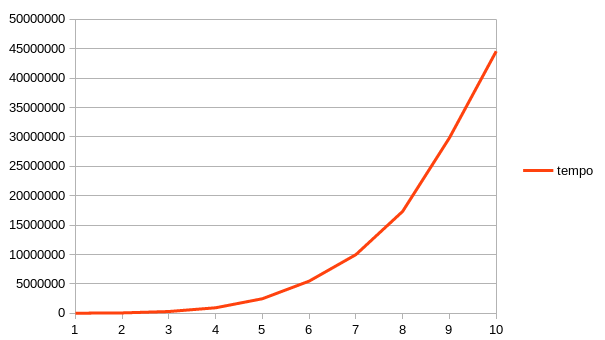
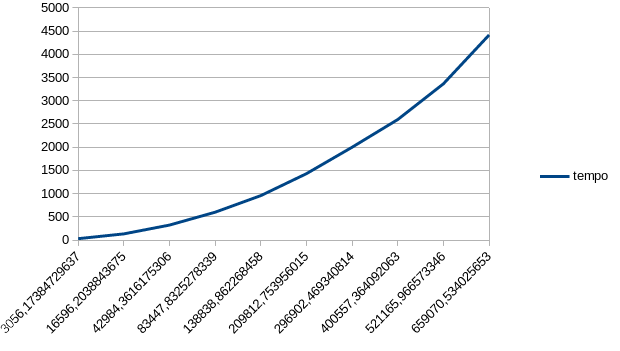
Updated graph and csv

diff --git a/cal_fp05_CLion/Tests/tests.cpp b/cal_fp05_CLion/Tests/tests.cpp
@@ -46,22 +46,24 @@ basic_ostream<char>& operator<<(basic_ostream<char> & strm, const pair<T1, T2>& 
     return strm;
 }
 
-
-void geneateRandomGridGraph(int n, Graph<pair<int,int>> & g) {
+//Changed parameters to get V and E
+void geneateRandomGridGraph(int n, Graph<pair<int,int>> & g, long int &V, long int &E) {
     std::random_device rd;
     std::mt19937 gen(rd());
     std::uniform_int_distribution<int> dis(1, n);
 
     for (int i = 0; i < n; i++)
         for (int j = 0; j < n; j++)
-            g.addVertex(make_pair(i,j));
+            {g.addVertex(make_pair(i,j));
+            V++;}//My addition
 
     for (int i = 0; i < n; i++)
         for (int j = 0; j < n; j++)
             for (int di = -1; di <= 1; di++)
                 for (int dj = -1; dj <= 1; dj++)
                     if ((di != 0) != (dj != 0) && i+di >= 0 && i+di < n && j+dj >= 0 && j+dj < n)
-                        g.addEdge(make_pair(i,j), make_pair(i+di,j+dj), dis(gen));
+                        {g.addEdge(make_pair(i,j), make_pair(i+di,j+dj), dis(gen));
+                        E++;}//My addition
 }
 
 template <class T>
@@ -127,11 +129,12 @@ TEST(CAL_FP05, test_dijkstra) {
 TEST(CAL_FP05, test_performance_dijkstra) {
     //My additions
     ofstream csv; csv.open("../dijkstra.csv");
+    long int V=0,E=0;
     //End of my additions
     for (int n = 10; n <= 100; n += 10) {
         Graph< pair<int,int> > g;
         cout << "Dijkstra generating grid " << n << " x " << n << " ..." << endl;
-        geneateRandomGridGraph(n, g);
+        geneateRandomGridGraph(n, g,V,E);
         cout << "Dijkstra processing grid " << n << " x " << n << " ..." << endl;
         auto start = std::chrono::high_resolution_clock::now();
         for (int i = 0; i < n; i++)
@@ -140,7 +143,9 @@ TEST(CAL_FP05, test_performance_dijkstra) {
         auto finish = std::chrono::high_resolution_clock::now();
         auto elapsed = chrono::duration_cast<chrono::microseconds>(finish - start).count();
         //My additions
-        csv<<n<<","<<elapsed/(n*n)<<"\n";
+        csv<<n<<","<<V<<","<<E<<","<<elapsed/(n*n)<<"\n";
+        V=0;
+        E=0;
         //End of my additions
         cout << "Dijkstra processing grid " << n << " x " << n << " average time (micro-seconds)=" << (elapsed / (n*n)) << endl;
     }
